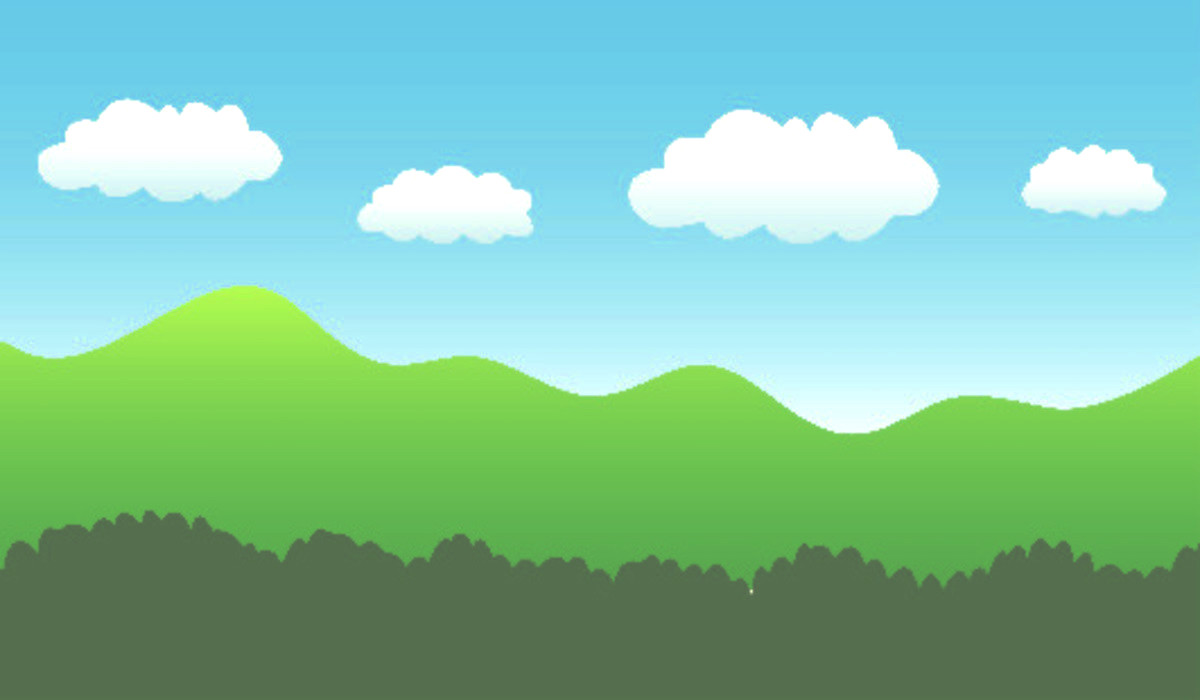
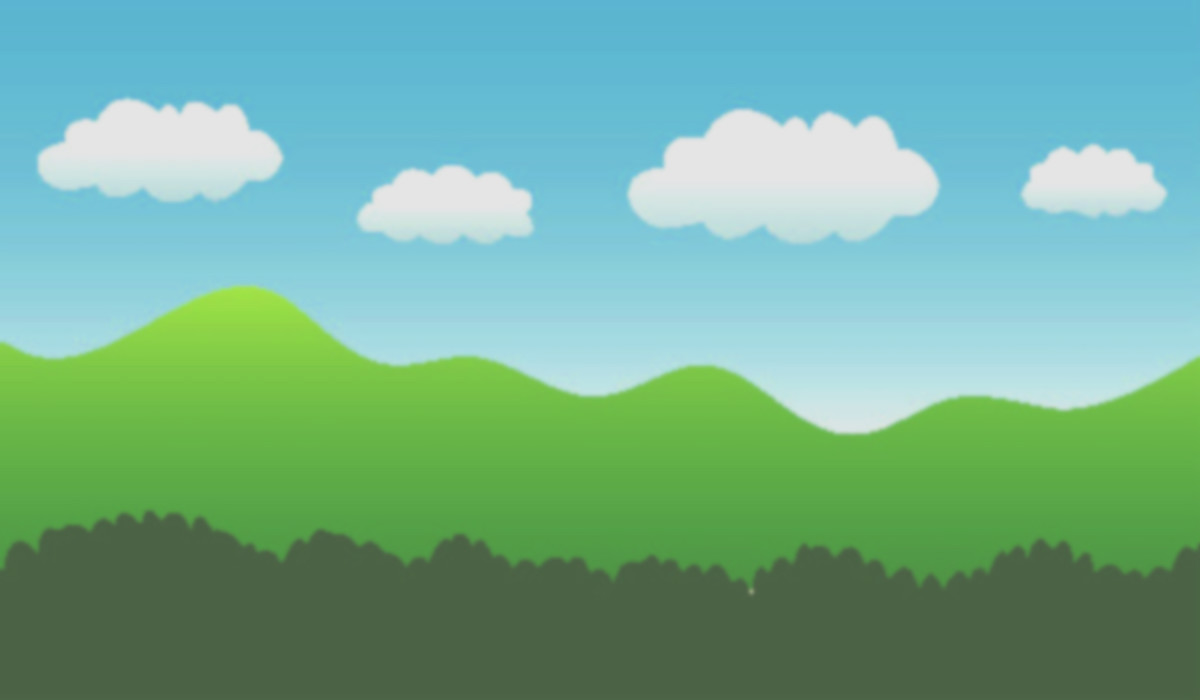
Cookie Score & Hearts
better background image quality
more random movingBlocks
score counter in top right corner
hearts do not move anymore :)

Changed region(s): [[0.0, 0.12, 1.0, 0.63], [0.9867, 0.03, 1.0, 0.06], [0.0925, 0.72, 0.1233, 0.75]]

diff --git a/MyWorld.java b/MyWorld.java
@@ -22,6 +22,7 @@ public class MyWorld extends greenfoot.World
         addObject(new Heart(),1010,50);
         addObject(new Heart(),940,50);
         addObject(new Heart(),870,50);
+        addObject(new Score(),1150, 115);
         isWorldNew = true;
         levelCreator();
     }
@@ -56,7 +57,11 @@ public class MyWorld extends greenfoot.World
                 while (newY > 666 | newY < 190) {
                     newY = oldY + Greenfoot.getRandomNumber(200) - 100;
                 }
-                if (randomMovingIn == 10) addObject(new MovingBlock(0, 1, 20, true), newX, newY);
+                if (randomMovingIn == 10) {
+                    int randomSpeed = Greenfoot.getRandomNumber(3)+1;
+                    int randomDistance = Greenfoot.getRandomNumber(24)+15;
+                    addObject(new MovingBlock(0, randomSpeed, randomDistance, true), newX, newY);
+                }
                 else addObject(new Block(),newX,newY);
                 oldX = newX;
                 oldY = newY;

diff --git a/Pusheen.java b/Pusheen.java
@@ -9,7 +9,6 @@ public class Pusheen extends Actor {
     public int grav;
     public int speed;
     public static int lifes;
-    public int levelTry;
     public boolean isJumping;
     public int jumpCounter;
     public int cookiePoints;
@@ -27,7 +26,6 @@ public class Pusheen extends Actor {
     public Pusheen() {
         setImage("pusheen-right.png");
         this.isJumping = false;
-        this.levelTry = 1;
         this.jumpCounter = 0;
         this.lifes = 5;
         this.speed = 5;
@@ -142,6 +140,7 @@ public class Pusheen extends Actor {
             Actor toRemove = getOneIntersectingObject(Cookie.class);
             getWorld().removeObject(toRemove);
             cookiePoints++;
+            getWorld().getObjects(Score.class).get(0).incScore(cookiePoints);
         }
         if (getOneIntersectingObject(Donut.class) != null) {
             Actor toRemove = getOneIntersectingObject(Donut.class);

diff --git a/Score.java b/Score.java
@@ -1,0 +1,21 @@
+import greenfoot.*;
+
+public class Score extends Actor {
+
+    private GreenfootImage image;
+
+    public Score() {
+        this.image = new GreenfootImage(200, 50);
+        image.drawString("Cookie Score: 0", 2, 20);
+        setImage(this.image);
+    }
+
+    public void incScore(int score) {
+        GreenfootImage img = getImage();
+        img.clear();
+        String string = String.format("Cookie Score: %s", score);
+        img.drawString(string, 2, 20);
+    }
+    
+    public void act() {}
+}

diff --git a/Scroller.java b/Scroller.java
@@ -46,8 +46,10 @@ public class Scroller extends Actor
             world.setBackground(hold);
         }
     for (Object obj : world.getObjects(null)) {
-        Actor actor = (Actor) obj;
-        actor.setLocation(actor.getX()-dsx, actor.getY()-dsy);
+        if (obj.getClass() != Heart.class && obj.getClass() != Score.class) {
+            Actor actor = (Actor) obj;
+            actor.setLocation(actor.getX()-dsx, actor.getY()-dsy);
+        }
     }
 }
 

diff --git a/Fire.java b/Fire.java
@@ -1,5 +1,4 @@
-import greenfoot.*;  // (World, Actor, GreenfootImage, Greenfoot and MouseInfo)
-
+import greenfoot.*; 
 
 public class Fire extends Objects {
     public Fire() {

diff --git a/Heart.java b/Heart.java
@@ -1,4 +1,4 @@
-import greenfoot.*;  // (World, Actor, GreenfootImage, Greenfoot and MouseInfo)
+import greenfoot.*;
 import java.util.List;
 
 public class Heart extends Actor

diff --git a/EndFlag.java b/EndFlag.java
@@ -1,4 +1,2 @@
-import greenfoot.*;  // (World, Actor, GreenfootImage, Greenfoot and MouseInfo)
-
-
+import greenfoot.*;
 public class EndFlag extends Objects {}

diff --git a/Cookie.java b/Cookie.java
@@ -1,5 +1,4 @@
-import greenfoot.*;  // (World, Actor, GreenfootImage, Greenfoot and MouseInfo)
-
+import greenfoot.*;
 
 public class Cookie extends Objects
 {
